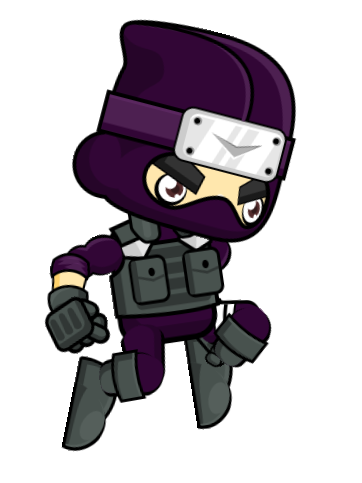
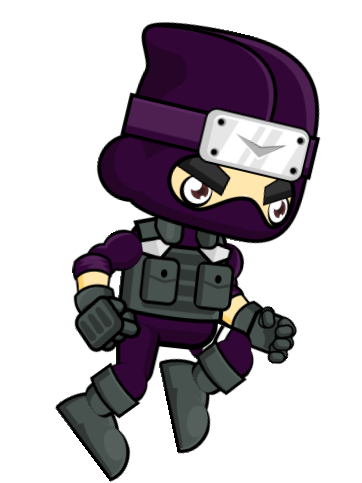
jump action update

diff --git a/assignments/js/game/assests/js/game.js b/assignments/js/game/assests/js/game.js
@@ -6,8 +6,8 @@ function idleAnimation(){
 
     idleImageNumber=idleImageNumber+1;
 
-    if (idleImageNumber == 9){
-        idleImageNumber = 1;
+    if (idleImageNumber ==10){
+        idleImageNumber = 0;
     }
 
     boy.src = "assests/image/idle("+idleImageNumber+").png";
@@ -21,8 +21,8 @@ runAnimationNumber=0;
 
 function  runAnimation(){
     runImageNumber=runImageNumber+1
-    if (runImageNumber == 9){
-        runImageNumber = 1;
+    if (runImageNumber == 10){
+        runImageNumber =0;
     }
     boy.src ="assests/image/Run("+runImageNumber+").png"
 }
@@ -36,27 +36,29 @@ function  runAnimation(){
 
  jumpImageNumber =1;
  jumpAnimationNumber=0;
- boyMarginTop=307;
+ boyMarginTop=453;
 
  function jumpAnimation(){
 
-    jumpImageNumber = jumpImageNumber + 1;
+    jumpImageNumber = jumpImageNumber +1;
 
     if(jumpImageNumber <= 6){
-        boyMarginTop = boyMarginTop - 20;
-        boy.style.marginTop=boyMarginTop + "px";
+        boyMarginTop = boyMarginTop-20;
+        boy.style.marginTop=boyMarginTop+"px";
     }
-    if(jumpImageNumber <=7){
-        boyMarginTop = boyMarginTop +20;
-        boy.style.marginTop = boyMarginTop + "px";
+    if(jumpImageNumber >= 7){
+        boyMarginTop = boyMarginTop+20;
+        boy.style.marginTop = boyMarginTop+"px";
     }
 
     if(jumpImageNumber ==11){
+
         jumpImageNumber=1;
         clearInterval(jumpAnimationNumber);
         jumpAnimationNumber=0;
         runImageNumber=0;
         runAnimationStart();
+
     }
 
      boy.src="assests/image/jump("+jumpImageNumber+").png";
@@ -68,6 +70,8 @@ function jumpAnimationStart(){
     clearInterval(runAnimationNumber);
     jumpAnimationNumber = setInterval(jumpAnimation,100);
 }
+
+
 
  function keyCheck(event){
     // alert(event.which);

diff --git a/assignments/js/game/assests/css/game.css b/assignments/js/game/assests/css/game.css
@@ -10,7 +10,8 @@
 }
 .boy{
     height:200px;
-    margin-top: 360px;
+    margin-top:453px
+;
     position: absolute;
 
 }
